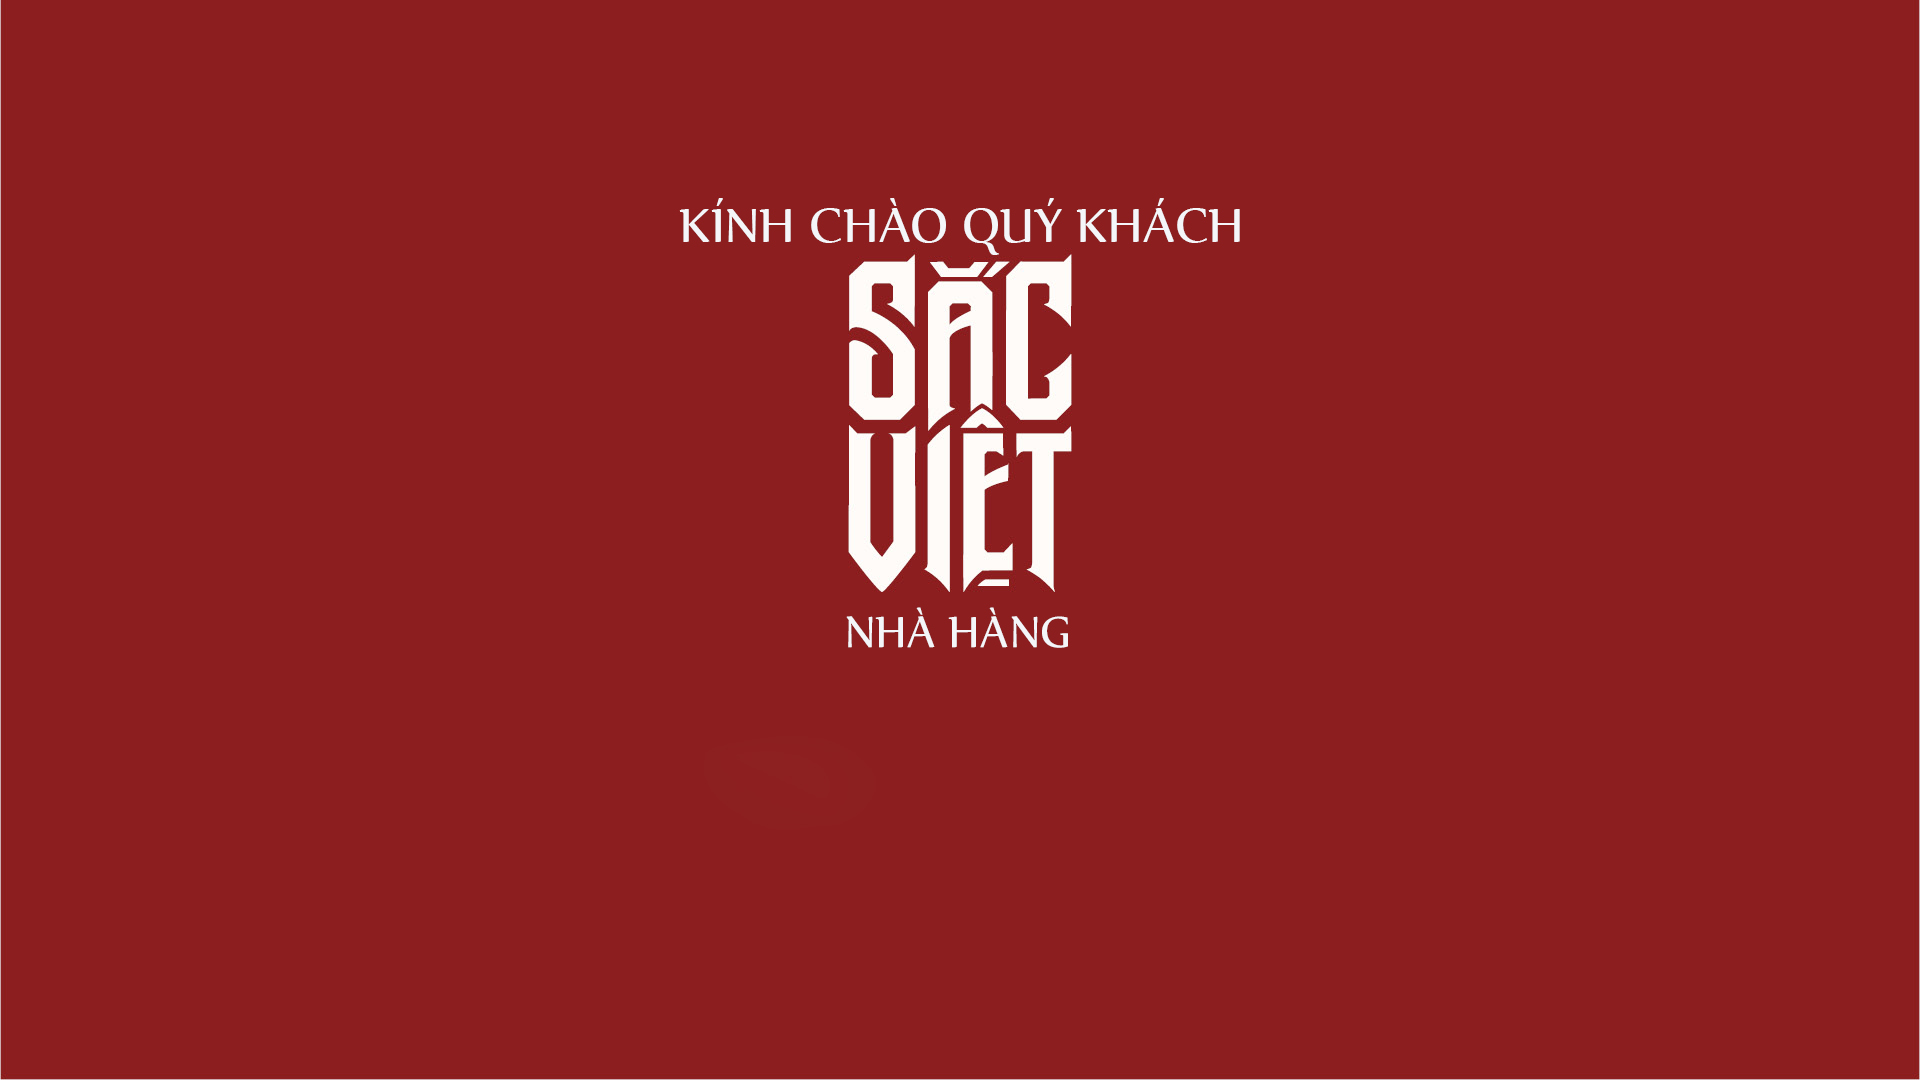
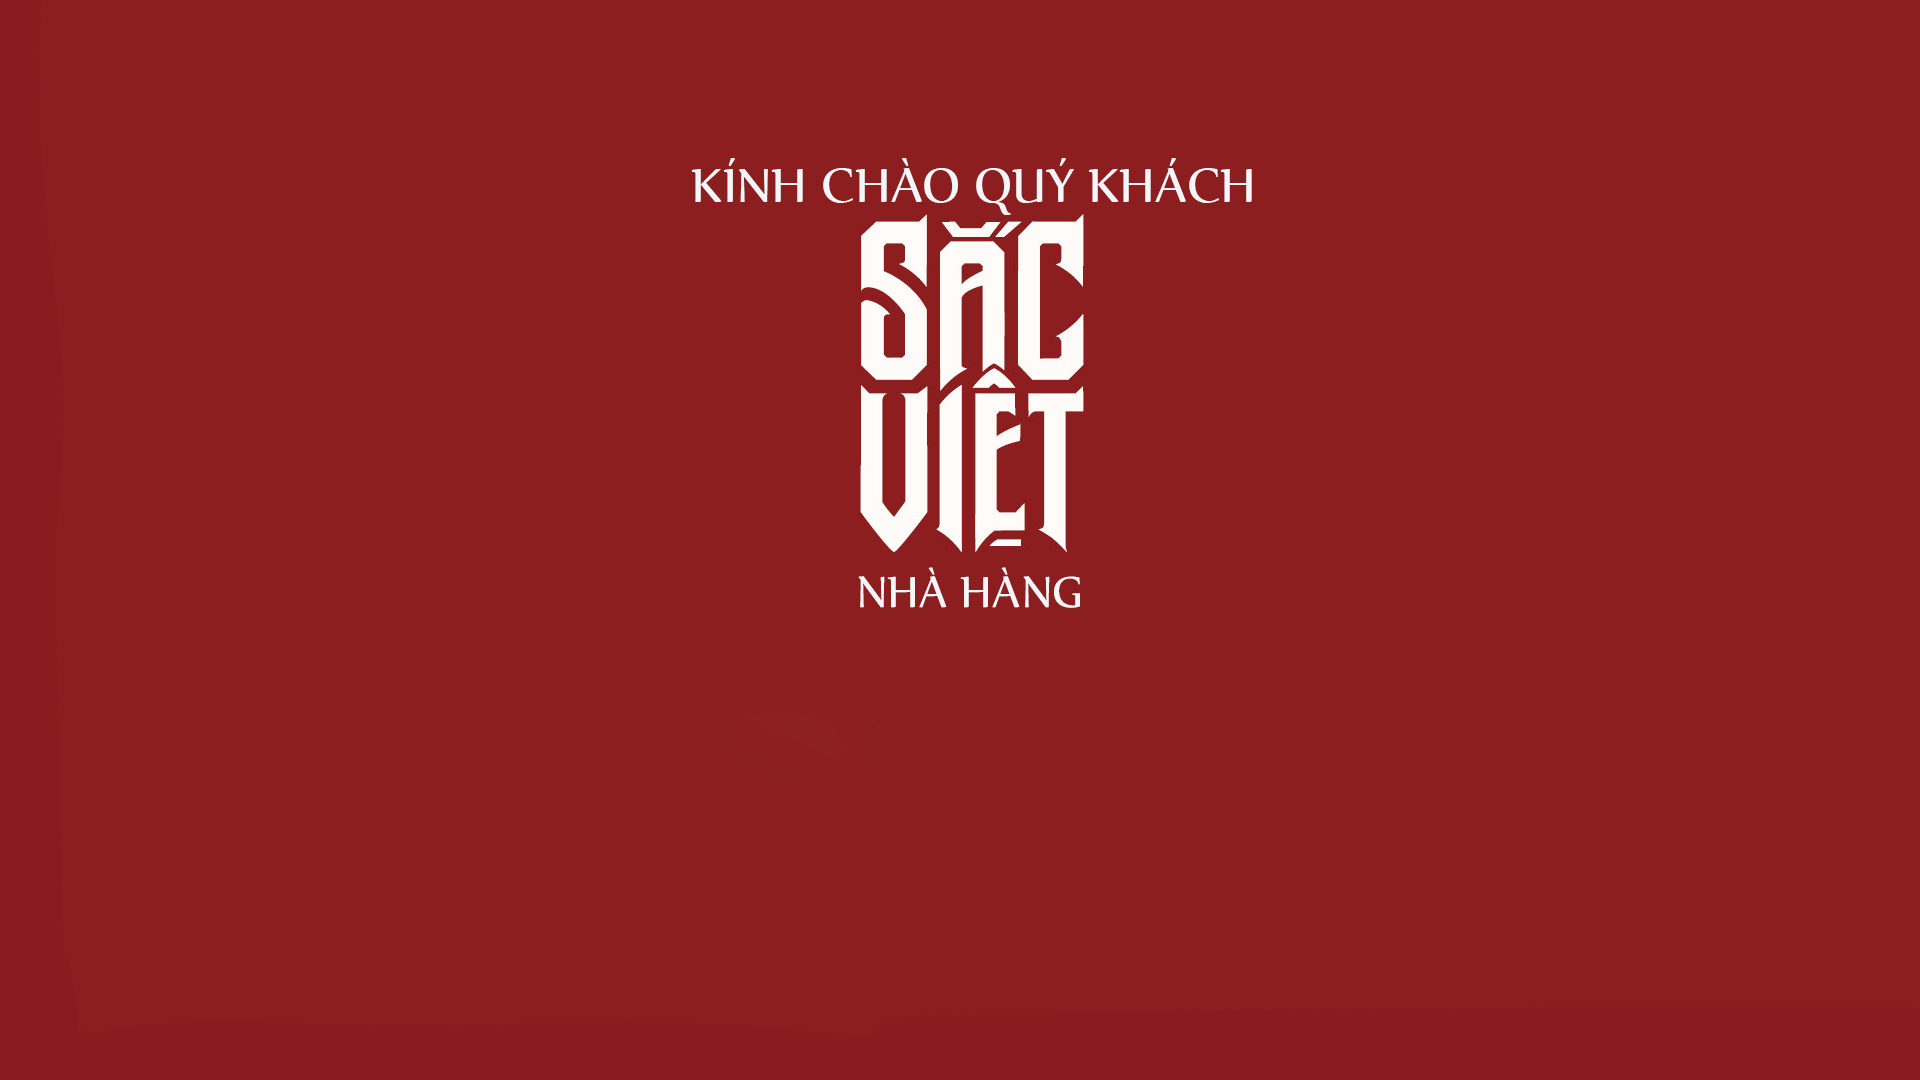
Add files via upload

Changed region(s): [[0.3438, 0.1528, 0.6562, 0.6111]]

diff --git a/css/main.css b/css/main.css
@@ -71,7 +71,7 @@ font-family:url("../font/Anton-Regular.ttf");
 .container{
 	width: 100%;
 	height: 830px;
-	background-image: url("../image/Slide.nen.jpg");
+	background-image: url("../image/Slide.jpg");
 	background-size: cover;
 	box-sizing: border-box;
 	
@@ -112,6 +112,7 @@ img {vertical-align: middle;}
   max-width: 850px;
   position: relative;
   margin: auto;
+  
 }
 
 /* Next & previous buttons */
@@ -143,7 +144,7 @@ img {vertical-align: middle;}
 
 /* Caption text */
 .text {
-  color: #f2f2f2;
+  color: #8c1b20;
   font-size: 15px;
   padding: 8px 12px;
   position: absolute;
@@ -358,7 +359,7 @@ i{
   animation-delay: 2s;
   animation-fill-mode: both;
   text-align: center;
-  color: #8c1b20;
+  color: #fff;
   margin-left: 560px;
   font-size: 35px;
 	font-family: Constantia, "Lucida Bright", "DejaVu Serif", Georgia, "serif";
@@ -378,7 +379,7 @@ i{
   animation-delay: 2s;
   animation-fill-mode: both;
   text-align: center;
-  color: #8c1b20;
+  color: #fff;
   margin-left: 935px;
   font-size: 35px;
 	font-family: Constantia, "Lucida Bright", "DejaVu Serif", Georgia, "serif";

diff --git a/index.html b/index.html
@@ -31,10 +31,11 @@
 <div id="contact">
   <a href="#" id="contact">Liên hệ</a></div>
 				<div class="hide">
-					
+					<center>
 					2 VÕ OANH, PHƯỜNG 25, BÌNH THẠNH.<br>
 					LH: (08) 9999 6868<br>
 					Hot mail: nhahangsacviet@hotmail.com.vn
+						</center>
 					
 				</div>
 				

diff --git a/css/main2.css b/css/main2.css
@@ -32,4 +32,5 @@ input[type=submit]:hover {
   border-radius: 5px;
   background-color: #8C1B20;
   padding: 20px;
+	width: 50%;
 }
